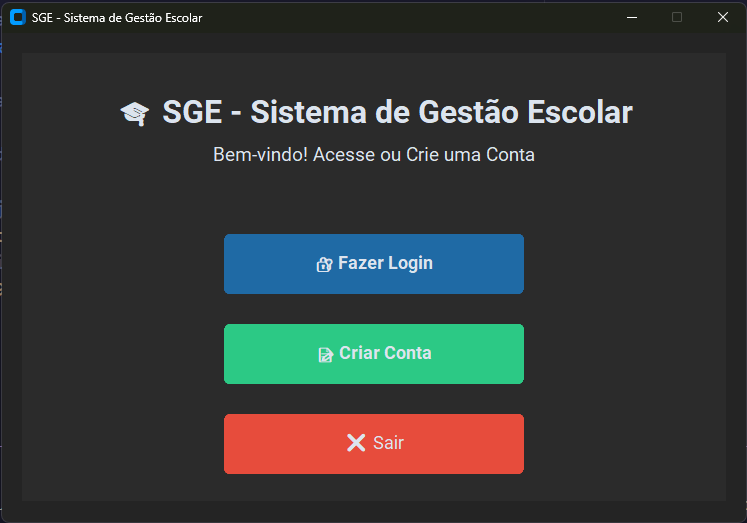
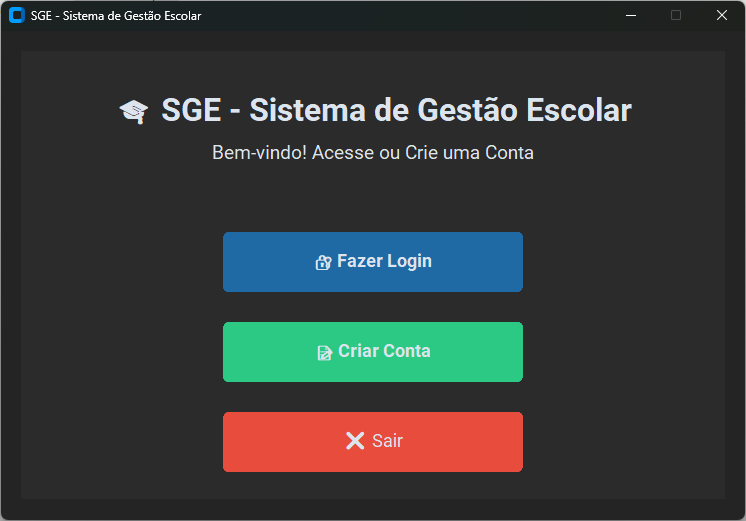
refact
arrumando imagem e style

diff --git a/front-web/portifolio/src/components/projetos/projetos.css b/front-web/portifolio/src/components/projetos/projetos.css
@@ -18,9 +18,7 @@
 
 .card img {
   width: 100%;
-  height: 100%;
-  max-width: 300px;
-  max-height: 300px;
+  max-width: 350px;
 }
 
 .card p {
@@ -69,12 +67,15 @@
   display: flex;
   justify-content: center;
   margin: 0 50px;
+  
 }
 
 .image-slide-projetcs img {
   width: 100%;
+  height: 100%;
   max-width: 750px;
   border-radius: 8px;
+  max-height: 750px;
 }
 
 #text-content-project {
